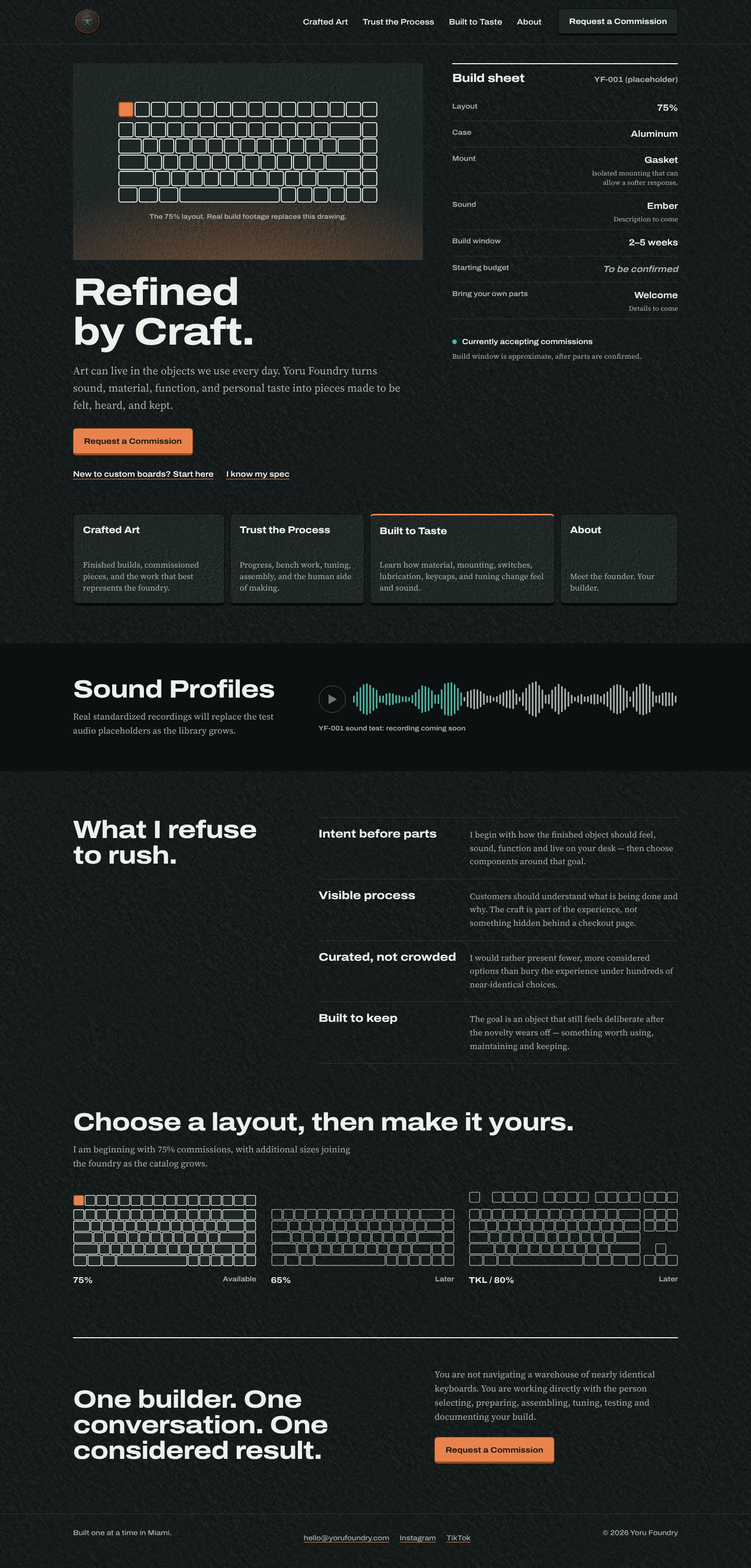
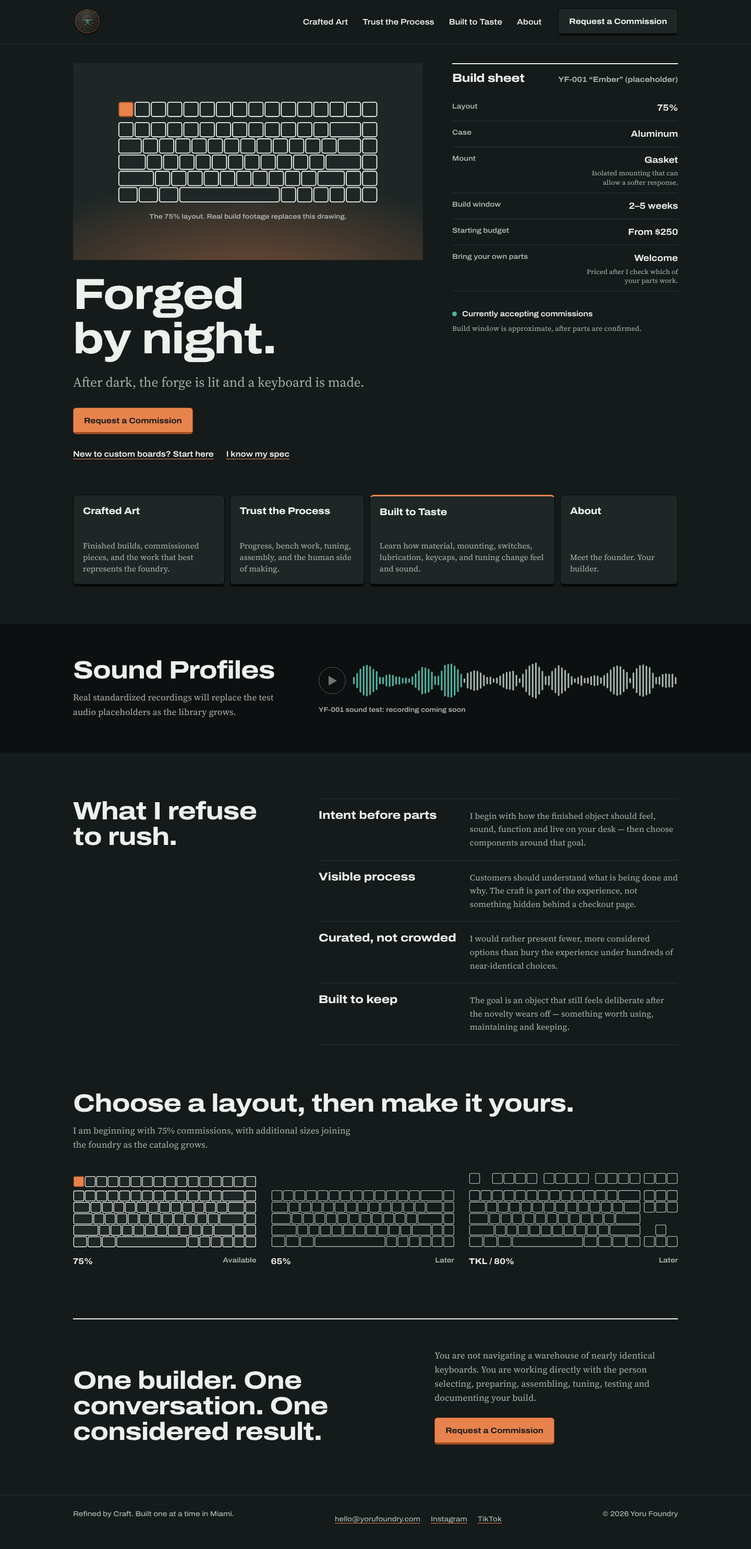
Mockup: no texture, material comes from photography
Mike's decision after the texture critique. Default view is Verdigris with
no texture; studies stay reachable by URL hash for reference.

Claude-Session: https://claude.ai/code/session_014kgsP4zXbR91SpjPr6JWR2

diff --git a/mockups/home.html b/mockups/home.html
@@ -1,5 +1,5 @@
 <!doctype html>
-<html lang="en" data-theme="verdigris" data-tex="cast-sand">
+<html lang="en" data-theme="verdigris">
 <head>
 <meta charset="utf-8">
 <meta name="viewport" content="width=device-width, initial-scale=1">
@@ -9,7 +9,7 @@
 <link rel="preconnect" href="https://fonts.gstatic.com" crossorigin>
 <link href="https://fonts.googleapis.com/css2?family=Archivo:wdth,wght@62..125,400..800&family=Source+Serif+4:opsz,wght@8..60,400;8..60,600&display=swap" rel="stylesheet">
 <script>
-// #theme or #theme&tex=grain|cast|sand|cast-sand|none (default: verdigris + cast-sand)
+// #theme or #theme&tex=grain|cast|sand|cast-sand|light|keys (default: verdigris, no texture; studies kept for reference)
 const [t, q] = location.hash.slice(1).split('&');
 if (t) document.documentElement.dataset.theme = t;
 const tex = new URLSearchParams(q || '').get('tex');

diff --git a/DESIGN_PLAN.md b/DESIGN_PLAN.md
@@ -123,10 +123,10 @@ Rules:
 - This replaces the Nocturne palette. `AGENTS.md` and `YORU_SITE_MEMORY.md` still ban green-heavy
   palettes and list the old tokens; they get rewritten once Mike signs off on the whole direction
   (rollout step 6).
-- Texture (trial, Mike 2026-10-06): cast-iron grain on the page background, sand-cast grain on raised
-  surfaces (section keys, frames); copper and the sound band stay smooth. Tiles are seamless, mean-neutral
-  detail cut from the existing `metal027` and `plaster-grey-04` textures, about 160 KB each, blended with
-  soft-light so token colors don't shift (measured under 1/255). Studies in `mockups/tex/`.
+- Texture (decided, Mike 2026-10-06): **none.** Material comes from real build photography, as on Keycult, Mode
+  and Angry Miao. A texture critique (`mockups/tex-critique.png`) found the trial at about 14% grain (the old rules
+  capped it at 3-6%), behind text, and dusting the photo frame. The studies stay in `mockups/tex/` for reference;
+  the old texture files and the texture rules in `AGENTS.md` go when the rules are rewritten.
 - Logo: the medallion image has a baked-in black ring that shows on Cast. Fix the image edge, not the
   logo design, during the header step.
 
